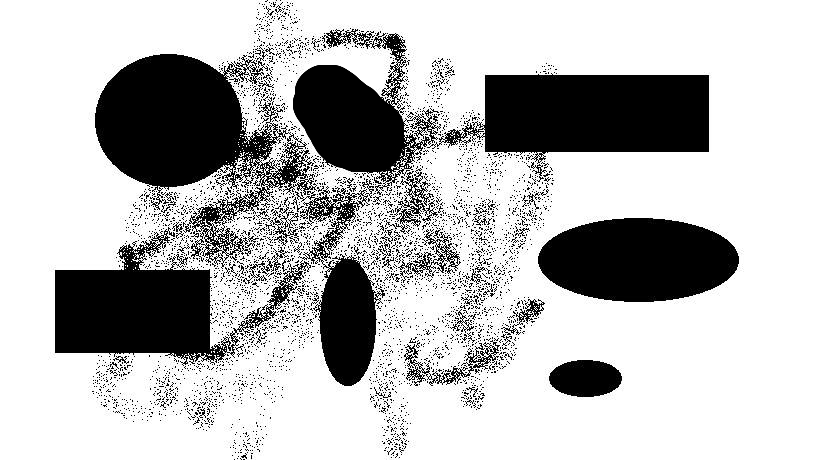
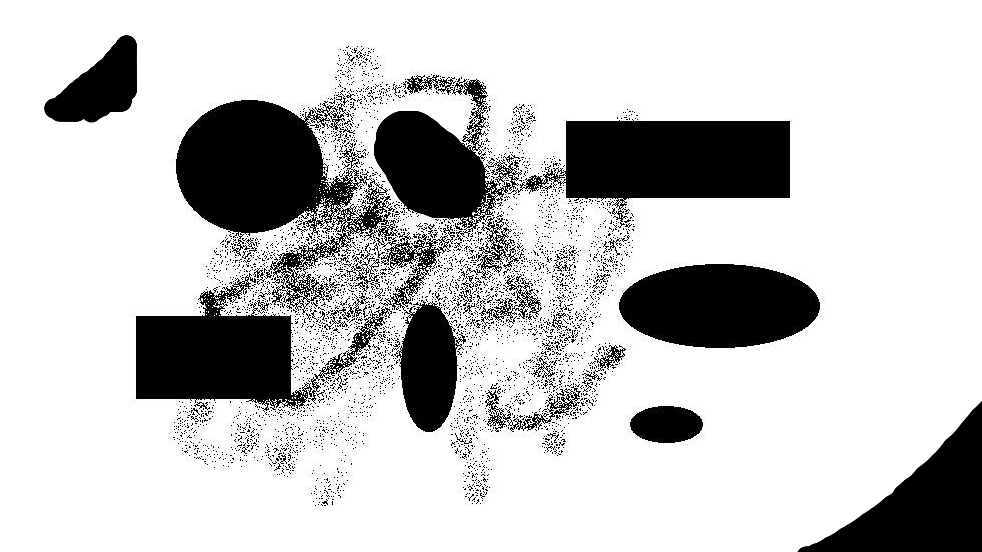
major axis and added tests

diff --git a/ChuckTests/PythonTest/blobtest2.py b/ChuckTests/PythonTest/blobtest2.py
@@ -3,13 +3,15 @@
 # maybe spin this off as its own function so it can be used
 # in other functions
 # file
-filename = 'testnoise3.jpg'
+filename = 'testnoise2.jpg'
 # Standard imports
 import cv2
 import numpy as np
+
 from math import cos
 from math import sin
 from math import radians
+from math import sqrt
 # this can be improved
 # doing the vector form of lines but i dont want to rederive that
 # so fix this sometime in the future
@@ -19,7 +21,7 @@ def drawLinesBetweenPoints(image, pointlist, colorArray):
         point1 = (int(pointlist[i][0]),int(pointlist[i][1]))
         point2 = (int(pointlist[(i+1)%len(pointlist)][0]),int(pointlist[(i+1)%len(pointlist)][1]))
         #print (point1, point2)
-        cv2.line(image, point1, point2, colorArray, 2)
+        cv2.line(image, point1, point2, colorArray, 1)
         '''
         pointx1 = pointlist[i][0]
         pointx2 = pointlist[(i+i)%len(pointlist)][0]
@@ -31,30 +33,53 @@ def drawLinesBetweenPoints(image, pointlist, colorArray):
         currenty = pointy1
         '''
 def radialSearch(x, y, edgeMat):
-    edgemaxx = len(edgeMat)
-    edgemaxy = len(edgeMat[0])
+    edgemaxx = len(edgeMat[0])
+    edgemaxy = len(edgeMat)
     if edgeMat[y, x] != 0:
         return
     pointEdgeArray = []
-    numberOfSections = 18
+    numberOfSections = 36
     degreeStep = 360 / numberOfSections
-    edgeBuf = 15
+    edgeBuf = 10
     for i in xrange(0,360 , degreeStep):
         sinStep = sin(radians(i))
         cosStep = cos(radians(i))
         #print (cosStep, sinStep, i)
         currentx = x
         currenty = y
-        while (edgeMat[int(round(currenty)),int(round(currentx))] == 0):
+        #print "before"
+        #print edgeMat[int(round(currenty)),int(round(currentx))]
+        while (int(edgeMat[int(round(currenty)),int(round(currentx))]) == 0):
+            #print (edgeMat[int(round(currenty)),int(round(currentx))], currentx, currenty)
             currentx += cosStep
             currenty += sinStep
-            if currentx>edgemaxx or currenty> edgemaxy or currentx < 0 or currenty < 0:
+            if round(currentx)>=edgemaxx or round(currenty)>= edgemaxy or round(currentx) < 0 or round(currenty) < 0:
                 break
-            pointEdgeArray.append((currentx ,currenty))
-            print (currentx,currenty)
+            #pointEdgeArray.append((currentx ,currenty))
+            #print (currentx,currenty)
         pointEdgeArray.append((currentx + edgeBuf*cosStep ,currenty +edgeBuf*sinStep))
-        edgeMat[int(currenty),int(currentx)] = int(255/2)
+        #edgeMat[int(currenty),int(currentx)] = int(255/2)
     return pointEdgeArray, edgeMat
+
+def findMaxMinAxis(pointlist, image):
+    maxDist = 0
+    maxPoints = []
+    minDist = sqrt(len(image)*len(image) + len(image[0])*len(image[0]))
+    print len(image)
+    print len(image[0])
+    print minDist
+    minPoints =[]
+    for point1 in pointlist:
+        for point2 in pointlist:
+            distanceBetween = sqrt(pow(point1[0]-point2[0],2)+pow(point1[1]-point2[1],2))
+            if distanceBetween>maxDist:
+                maxDist = distanceBetween
+                maxPoints = (point1,point2)
+            elif distanceBetween<minDist:
+                minPoints = (point1,point2)
+                minDist = distanceBetween
+    drawLinesBetweenPoints(image,maxPoints,[0,100,100])
+    drawLinesBetweenPoints(image,minPoints,[0,200,200])
 
 # Read image
 im = cv2.imread(filename, cv2.IMREAD_GRAYSCALE)
@@ -102,6 +127,7 @@ for point in keypointsBlur:
     pointx = pointxy[0]
     pointy = pointxy[1]
     im_with_keypointsBlur[pointy,pointx]=[0, 255, 0]
+    cannyEdges = cv2.GaussianBlur(cannyEdges,(3,3),0)
     pointEdgeArray, cannyEdges = radialSearch(pointx, pointy, cannyEdges)
     #print pointEdgeArray
     for edgePoint in pointEdgeArray:
@@ -110,8 +136,12 @@ for point in keypointsBlur:
         edgePointy = edgePoint[1]
         for i in xrange(- plusminus, plusminus):
             for j in xrange(-plusminus,plusminus):
-                im_with_keypointsBlur[edgePointy+j,edgePointx+i] = [255,0,0]
-    #drawLinesBetweenPoints(im_with_keypointsBlur, pointEdgeArray, [255,0,0])
+                try:
+                    im_with_keypointsBlur[edgePointy+j,edgePointx+i] = [120,120,0]
+                except:
+                    pass
+    findMaxMinAxis(pointEdgeArray,im_with_keypointsBlur)
+    drawLinesBetweenPoints(im_with_keypointsBlur, pointEdgeArray, [255,0,0])
 #    print (im_with_keypointsBlur[pointy,pointx])
 #    print (point.pt)
 
